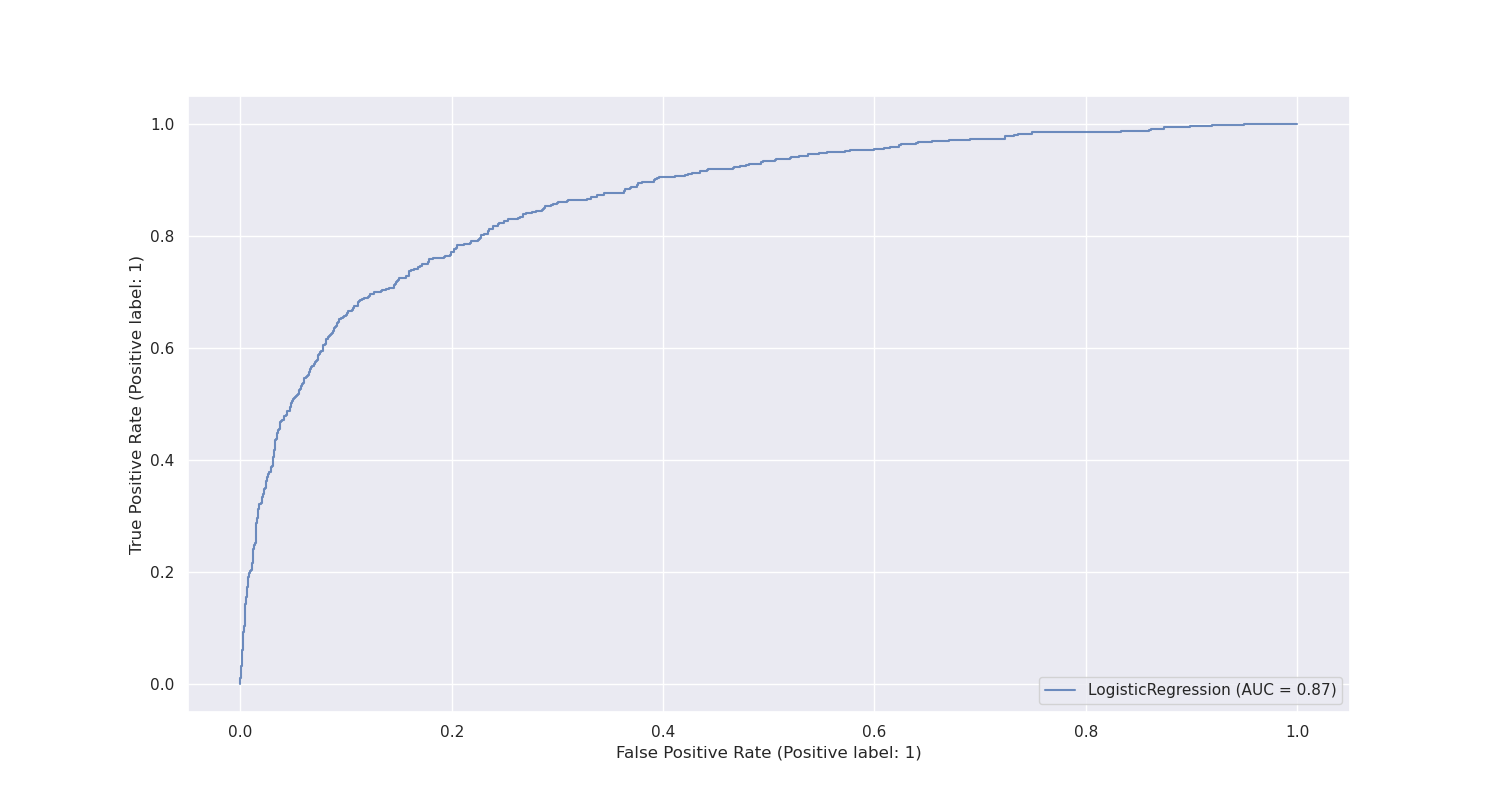
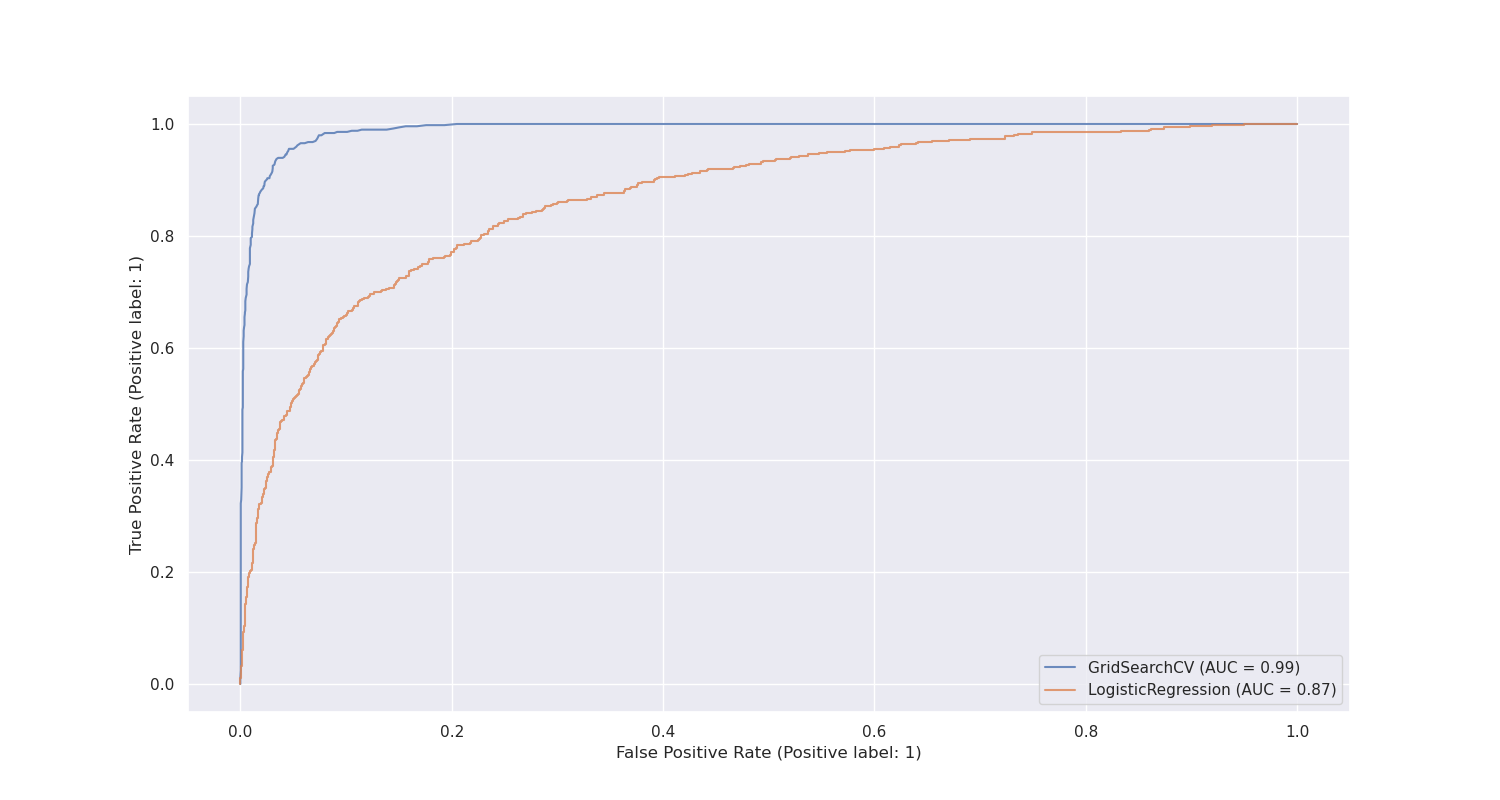
fix ROC curve and README.md

diff --git a/churn_library.py b/churn_library.py
@@ -8,6 +8,7 @@ Date: 02/03/2022
 
 '''
 
+# from black import ipynb_diff
 from sklearn.metrics import plot_roc_curve, classification_report
 from sklearn.model_selection import GridSearchCV
 from sklearn.ensemble import RandomForestClassifier
@@ -266,9 +267,11 @@ def train_models(X_train, X_test, y_train, y_test):
                                 y_test_preds_rf)
 
     lrc_plot = plot_roc_curve(lrc, X_test, y_test)
+    
 
     plt.figure(figsize=(15, 8))
     ax = plt.gca()
+    rfc_disp = plot_roc_curve(cv_rfc, X_test, y_test, ax=ax, alpha=0.8)
     lrc_plot.plot(ax=ax, alpha=0.8)
     plt.savefig('./images/results/roc_curve_result.png')
 

diff --git a/README.md b/README.md
@@ -24,8 +24,36 @@ scikit-learn
 pylint
 
 ```
+## Files in the Repo
+### Folder structure
 
-## Running Files
+```
+data
+    bank_data.csv
+images
+    eda
+        Churn_distribution.png
+        Customer_age_distribution.png
+        heatmap.png
+        marital_status_distribution.png
+        total_transaction_distribution.png
+    results
+        feature_importances.png
+        logistic_results.png
+        rf_results.png
+        roc_curve_results.png
+logs
+    churn_library.log
+models
+    logistic_model.pkl
+    rfc_model.pkl
+churn_library.py
+churn_notebook.ipynb
+churn_script_logging_and_tests.py
+README.md
+```
+
+### Running Files
 To use the fucions import the churn_library module in your script.
 
 `import churn_library as cls`
